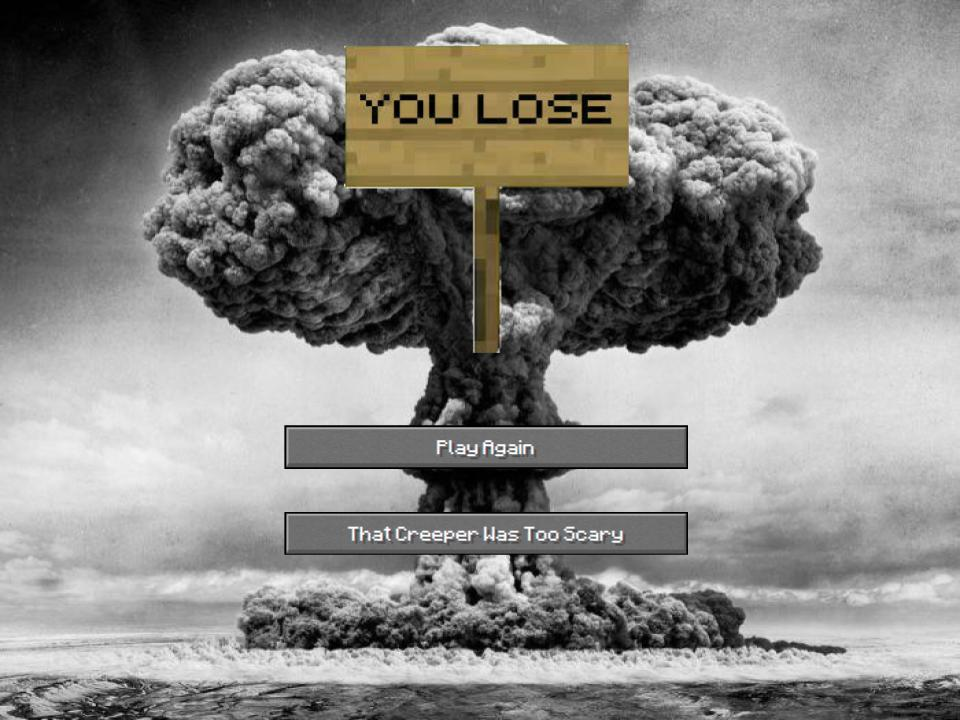
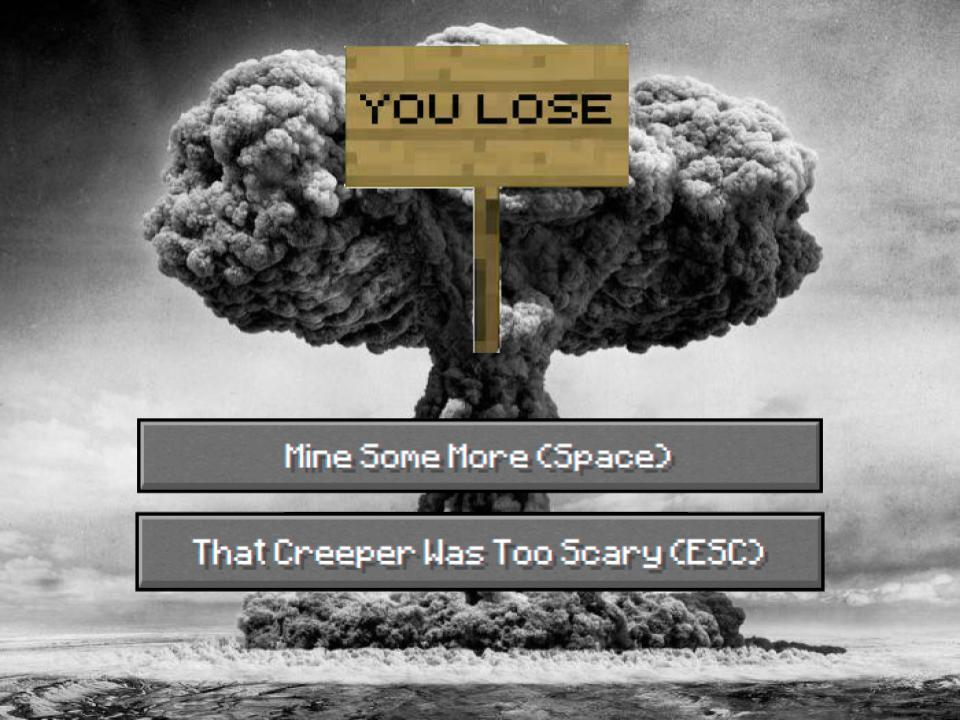
Add files via upload

Changed region(s): [[0.125, 0.5806, 0.875, 0.825]]

diff --git a/mine-diamonds.py b/mine-diamonds.py
@@ -10,12 +10,14 @@ pygame.init()
 START = 0
 PLAYING = 1
 END = 2
+WIN = 3
 
 #Images
 diamond = pygame.image.load('img/diamond.png')
 wall = pygame.image.load('img/wall.png')
 startscreen = pygame.image.load("img/start.jpg")
 endscreen = pygame.image.load("img/end.jpg")
+winscreen = pygame.image.load("img/winscreen.jpg")
 # Window
 WIDTH = 960
 HEIGHT = 720
@@ -41,8 +43,7 @@ GREEN = (0, 255, 0)
 
 
 # Make a player
-player1 =  [48, 48, 24, 24]
-player2 =  [768, 648, 24, 24]
+
 player_img = pygame.image.load("img/steve.png")
 evil_img = pygame.image.load("img/creeper.png")
 vel1 = [0, 0]
@@ -69,7 +70,7 @@ wall14 = [120, 360, 72, 48]
 wall15 = [168, 408, 24, 72]
 wall16 = [72, 432, 96, 48]
 wall17 = [48, 456, 24, 24]
-wall19 = [48, 312, 48, 96]
+wall19 = [48, 312, 24, 96]
 wall20 = [288, 336, 144, 144]
 wall21 = [384, 216, 48, 120]
 wall22 = [432, 216, 72, 48]
@@ -87,7 +88,7 @@ wall36 = [696, 96, 48, 168]
 wall37 = [744, 96, 72, 48]
 wall38 = [768, 48, 48, 48]
 wall39 = [792, 144, 24, 72]
-wall40 = [792, 216, 24, 480]
+wall40 = [792, 216, 24, 432]
 wall41 = [744, 240, 48, 24]
 wall42 = [816, 504, 72, 48]
 wall43 = [840, 432, 72, 48]
@@ -105,9 +106,9 @@ wall55 = [576, 600, 48, 48]
 
 
 walls = [wall1, wall2, wall3, wall4, wall5, wall6, wall7, wall8, wall9, wall10,
-         wall11, wall12, wall13, wall14, wall15, wall16, wall17, wall19, wall20,
+         wall11, wall13, wall14, wall16, wall19, wall20,
          wall21, wall22, wall23, wall25, wall26, wall27, wall28, wall29, wall30,
-         wall31, wall33, wall35, wall36, wall37, wall38, wall39, wall40, wall41,
+         wall31, wall33, wall35, wall36, wall37, wall39, wall40, wall41,
          wall42, wall43, wall44, wall46, wall47, wall48, wall49, wall50, wall51,
          wall52, wall53, wall54, wall55]
 
@@ -123,13 +124,15 @@ def setup():
     vel1= [0,0]
     vel2= [0,0]
     walls = [wall1, wall2, wall3, wall4, wall5, wall6, wall7, wall8, wall9, wall10,
-         wall11, wall12, wall13, wall14, wall15, wall16, wall17, wall19, wall20,
+         wall11, wall13, wall14, wall16, wall19, wall20,
          wall21, wall22, wall23, wall25, wall26, wall27, wall28, wall29, wall30,
-         wall31, wall33, wall35, wall36, wall37, wall38, wall39, wall40, wall41,
+         wall31, wall33, wall35, wall36, wall37, wall39, wall40, wall41,
          wall42, wall43, wall44, wall46, wall47, wall48, wall49, wall50, wall51,
          wall52, wall53, wall54, wall55]
     coins = [coin1, coin2, coin3]
     pygame.mixer.music.play(-1)
+    player1 =  [48, 48, 24, 24]
+    player2 =  [768, 648, 24, 24]
 
     stage = START
     
@@ -155,6 +158,18 @@ while not done:
             if stage == END:
                 if event.key == pygame.K_SPACE:
                     setup()
+            if stage == WIN:
+                if event.key == pygame.K_SPACE:
+                    setup()
+            if stage == WIN:
+                if event.key == pygame.K_ESCAPE:
+                    pygame.quit()
+            if stage == END:
+                if event.key == pygame.K_ESCAPE:
+                    pygame.quit()
+            if stage == START:
+                if event.key == pygame.K_ESCAPE:
+                    pygame.quit()
 
     pressed = pygame.key.get_pressed()
 
@@ -260,7 +275,7 @@ while not done:
         slap.play()
         
     if len(coins) == 0:
-        win = True
+        stage = WIN
 
     ''' get player1 edges (makes collision resolution easier to read) '''
     left = player1[0]
@@ -325,6 +340,9 @@ while not done:
         screen.blit(startscreen, (0, 0))
     elif stage == END:
         screen.blit(endscreen, (0,0))
+        pygame.mixer.music.stop()
+    elif stage == WIN:
+        screen.blit(winscreen, (0,0))
         pygame.mixer.music.stop()
     
     # Update screen (Actually draw the picture in the window.)

diff --git a/how_to_play.md b/how_to_play.md
@@ -1,6 +1,7 @@
 How To Play
 -------------------------
-As Steve your goal is to collect the 3 diamonds and get to the crafting table to craft a sword and kill the creeper
+As Steve your goal is to collect the 3 diamonds to win the game and escape the creeper
 As the creeper your goal is to kill Steve by touching him before he collects the diamonds
-The switches will open secret doors
-Some diamonds will open doors too.
+
+
+GOOD LUCK STEVE!!!!11!
